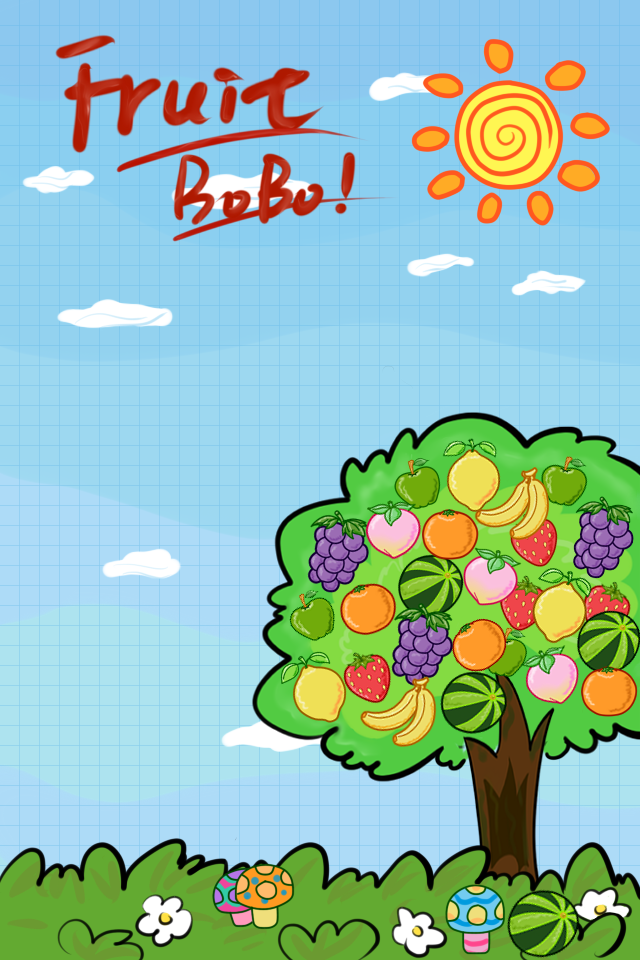
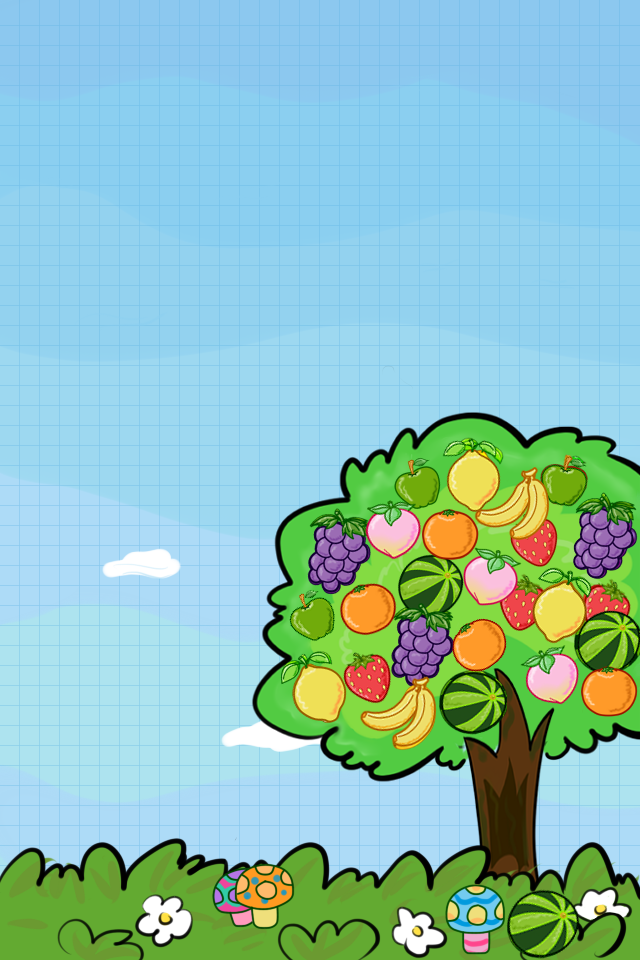
liuming

diff --git a/IGG003/S00.m b/IGG003/S00.m
@@ -37,7 +37,42 @@
     
     IGSprite *bak = [IGSprite spriteWithFile:@"cover.png"];
     bak.position = ccp(kWindowW/2,kWindowH/2);
-    [scene addChild:bak];
+    [scene addChild:bak z:0];
+    
+    
+    // 云彩
+    CCSprite *cloud1 = [CCSprite spriteWithSpriteFrameName:@"cloud.png"];
+    cloud1.tag = 9801;
+    [scene addChild:cloud1 z:10];
+    cloud1.position = ccp(160,400);
+    
+    CCSprite *cloud2 = [CCSprite spriteWithSpriteFrameName:@"cloud.png"];
+    cloud2.tag = 9802;
+    [scene addChild:cloud2 z:11];
+    cloud2.position = ccp(480,400);
+    
+    CCRepeatForever *cloud1RF = [CCRepeatForever actionWithAction:[CCMoveBy actionWithDuration:1.0 position:ccp(-15,0)]];
+    CCRepeatForever *cloud2RF = [CCRepeatForever actionWithAction:[CCMoveBy actionWithDuration:1.0 position:ccp(-15,0)]];
+    [cloud1 runAction:cloud1RF];
+    [cloud2 runAction:cloud2RF];
+    [scene schedule:@selector(cloudMoveCheck) interval:1];
+    
+    
+    // 标题
+    CCSprite *bobo = [CCSprite spriteWithSpriteFrameName:@"BOBO.png"];
+    [scene addChild:bobo z:20];
+    bobo.position = ccp(100,400);
+    
+    // 太阳
+    CCSprite* sunin=[CCSprite spriteWithSpriteFrameName:@"sunin.png"];
+    CCSprite* sunout=[CCSprite spriteWithSpriteFrameName:@"sunout.png"];
+    [scene addChild:sunin z:5];
+    [scene addChild:sunout z:6];
+    sunin.position = ccp(260,410);
+    sunout.position = ccp(260,410);
+    CCRepeatForever *rf = [CCRepeatForever actionWithAction:[CCRotateBy actionWithDuration:1.0 angle:20]];
+    [sunout runAction:rf];
+
     
     CCSprite* playNormal=[CCSprite spriteWithSpriteFrameName:@"btn1-1.png"];
     CCSprite* playSecelt=[CCSprite spriteWithSpriteFrameName:@"btn1-2.png"];
@@ -68,15 +103,14 @@
     // 开始游戏按钮
     CCMenu* menu1=[CCMenu menuWithItems:startSprite,brokenSprite,nil];
     menu1.position=ccp(100, 280);    
-    [scene addChild:menu1];
+    [scene addChild:menu1 z:40];
     [menu1 alignItemsVerticallyWithPadding:15];
     
     // 下面的其他按钮
     CCMenu* menu2=[CCMenu menuWithItems:scoreSprite,settingSprite,aboutSprite,nil];
     menu2.position=ccp(75, 140);    
-    [scene addChild:menu2];
-    [menu2 alignItemsVerticallyWithPadding:15];
-    
+    [scene addChild:menu2 z:41];
+    [menu2 alignItemsVerticallyWithPadding:15];    
 	return scene;
 }
 
@@ -102,6 +136,23 @@
 // 关于页面
 -(void)showAbout{
     [[CCDirector sharedDirector] replaceScene:[S02 showAbout]];
+}
+
+-(void)cloudMoveCheck{
+    CCSprite *cloud1 = [self getChildByTag:9801];
+    CCSprite *cloud2 = [self getChildByTag:9802];
+    if (cloud1.position.x < -160) {
+        [cloud1 removeFromParentAndCleanup:YES];
+        cloud2.tag = 9801;
+        
+        CCSprite *cloud = [CCSprite spriteWithSpriteFrameName:@"cloud.png"];
+        cloud.tag = 9802;
+        [self addChild:cloud z:11];
+        cloud.position = ccp(480,400);
+        
+        CCRepeatForever *cloudRF = [CCRepeatForever actionWithAction:[CCMoveBy actionWithDuration:1.0 position:ccp(-15,0)]];
+        [cloud runAction:cloudRF];
+    }
 }
 
 @end

diff --git a/IGG003/S01.m b/IGG003/S01.m
@@ -23,7 +23,7 @@ static S01 *staticS01;
     [scene addChild:bak];
     [scene showReady];
 	// 游戏层
-    [scene performSelector:@selector(gameStart) withObject:Nil afterDelay:1.6];
+    [scene performSelector:@selector(gameStart) withObject:Nil afterDelay:1.1];
     staticS01 = scene;
     
     // 普通模式
@@ -48,7 +48,7 @@ static S01 *staticS01;
     
     [scene showReady];
 	// 游戏层
-    [scene performSelector:@selector(gameStartForBroken) withObject:Nil afterDelay:1.6];
+    [scene performSelector:@selector(gameStartForBroken) withObject:Nil afterDelay:1.1];
     
     staticS01 = scene;
     
@@ -143,22 +143,22 @@ static S01 *staticS01;
     [self performSelector:@selector(loadCL05) withObject:Nil afterDelay:1];
 }
 -(void)showReady{
-    CCSprite *readyImg = [CCSprite spriteWithFile:@"ready.png"];
+    CCSprite *readyImg = [CCSprite spriteWithSpriteFrameName:@"ready.png"];
     id readyac0 = [readyImg runAction:[CCPlace actionWithPosition:ccp(kWindowW/2,kWindowH/2)]]; 
     id readyac1 = [CCScaleBy actionWithDuration:0.3 scaleX:3.0f scaleY:3.0f];  
-    id readyac2 = [CCFadeOut actionWithDuration:0.5];
+    id readyac2 = [CCFadeOut actionWithDuration:0.3];
     [readyImg runAction:[CCSequence actions:readyac0, readyac1, readyac2, nil]]; 
     [self addChild:readyImg];
     //调用显示GO
-    [self performSelector:@selector(showGo) withObject:Nil afterDelay:1];
+    [self performSelector:@selector(showGo) withObject:Nil afterDelay:0.6];
     
 }
 -(void)showGo{
-    CCSprite *goImg = [CCSprite spriteWithFile:@"go.png"];
+    CCSprite *goImg = [CCSprite spriteWithSpriteFrameName:@"go.png"];
     [self addChild:goImg];
     id goac0 = [goImg runAction:[CCPlace actionWithPosition:ccp(kWindowW/2,kWindowH/2)]]; 
     id goac1 = [CCScaleBy actionWithDuration:0.3 scaleX:3.0f scaleY:3.0f];  
-    id goac2 = [CCFadeOut actionWithDuration:0.5];
+    id goac2 = [CCFadeOut actionWithDuration:0.1];
     [goImg runAction:[CCSequence actions:goac0, goac1, goac2, nil]]; 
 }
 -(void)gameStart{

diff --git a/IGG003/CL05.m b/IGG003/CL05.m
@@ -24,6 +24,12 @@
         IGSprite *bak = [IGSprite spriteWithFile:@"paused.png"];
         bak.position = ccp(kWindowW/2,kWindowH/2);
         [self addChild:bak];
+        
+        // GameOver的图片
+        IGSprite *gameover = [IGSprite spriteWithSpriteFrameName:@"gameover.png"];
+        gameover.position = ccp(kWindowW/2,390);
+        [self addChild:gameover];
+        
         //restart按钮
         CCSprite* restartNormal=[CCSprite spriteWithSpriteFrameName:@"btn6-1.png"];
         CCSprite* restartSecelt=[CCSprite spriteWithSpriteFrameName:@"btn6-2.png"];
